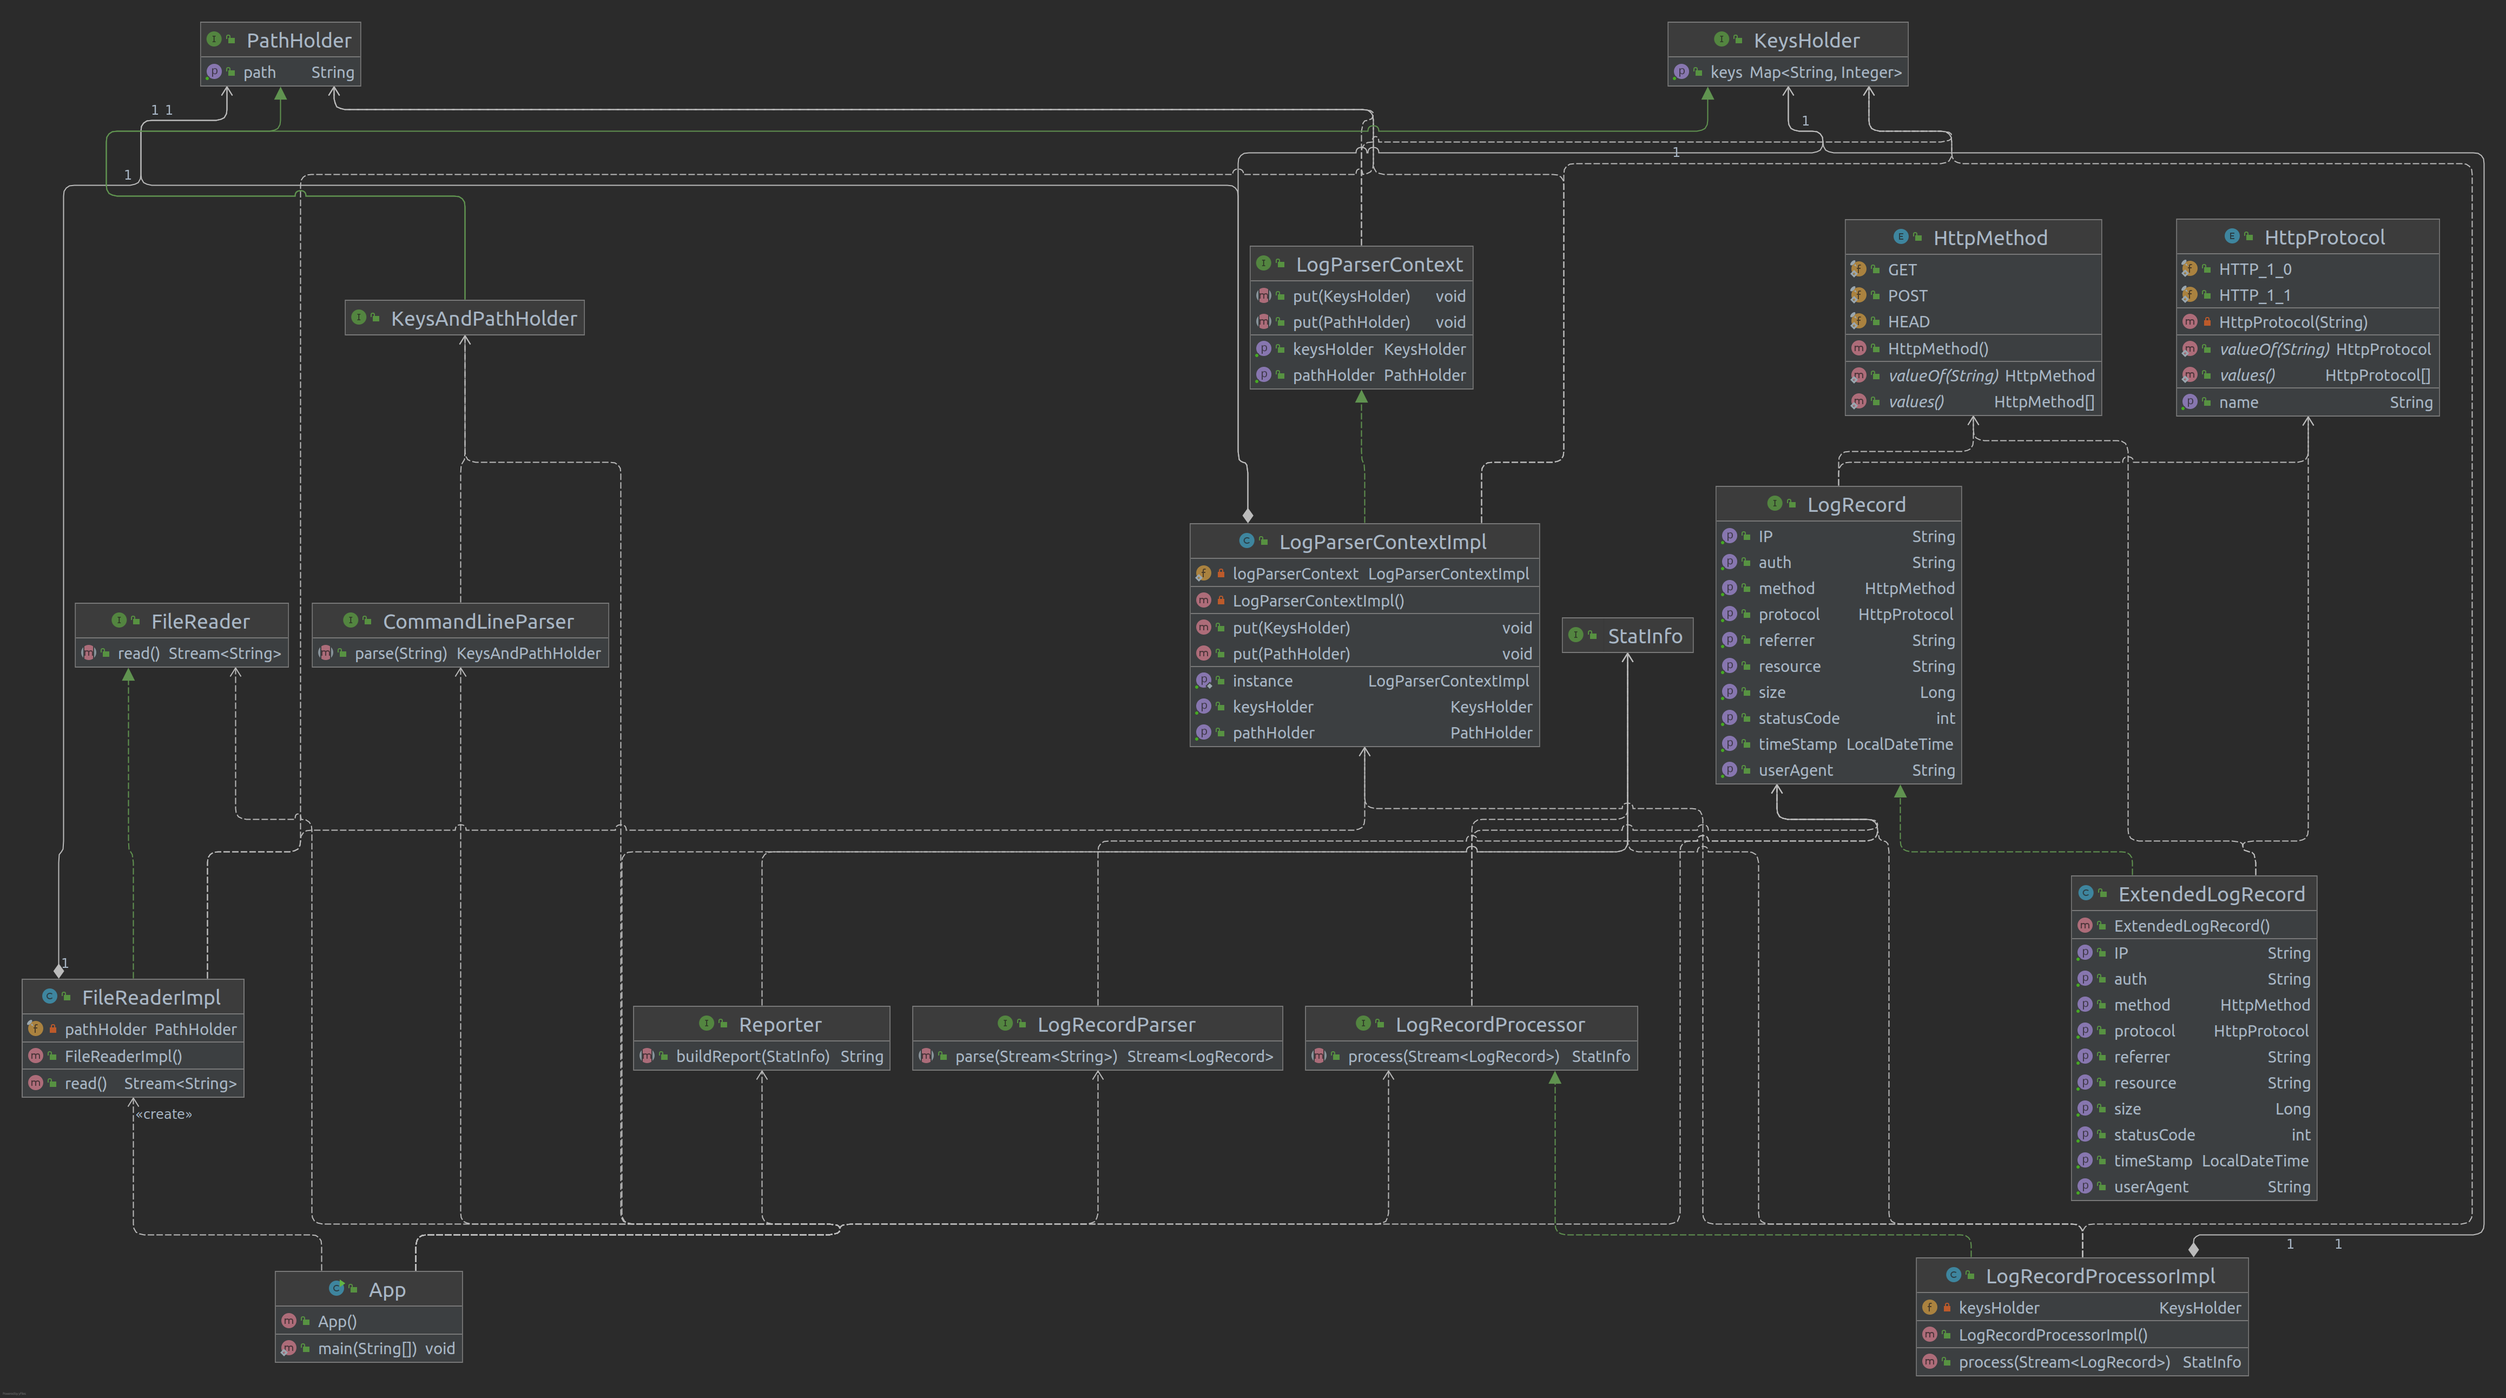
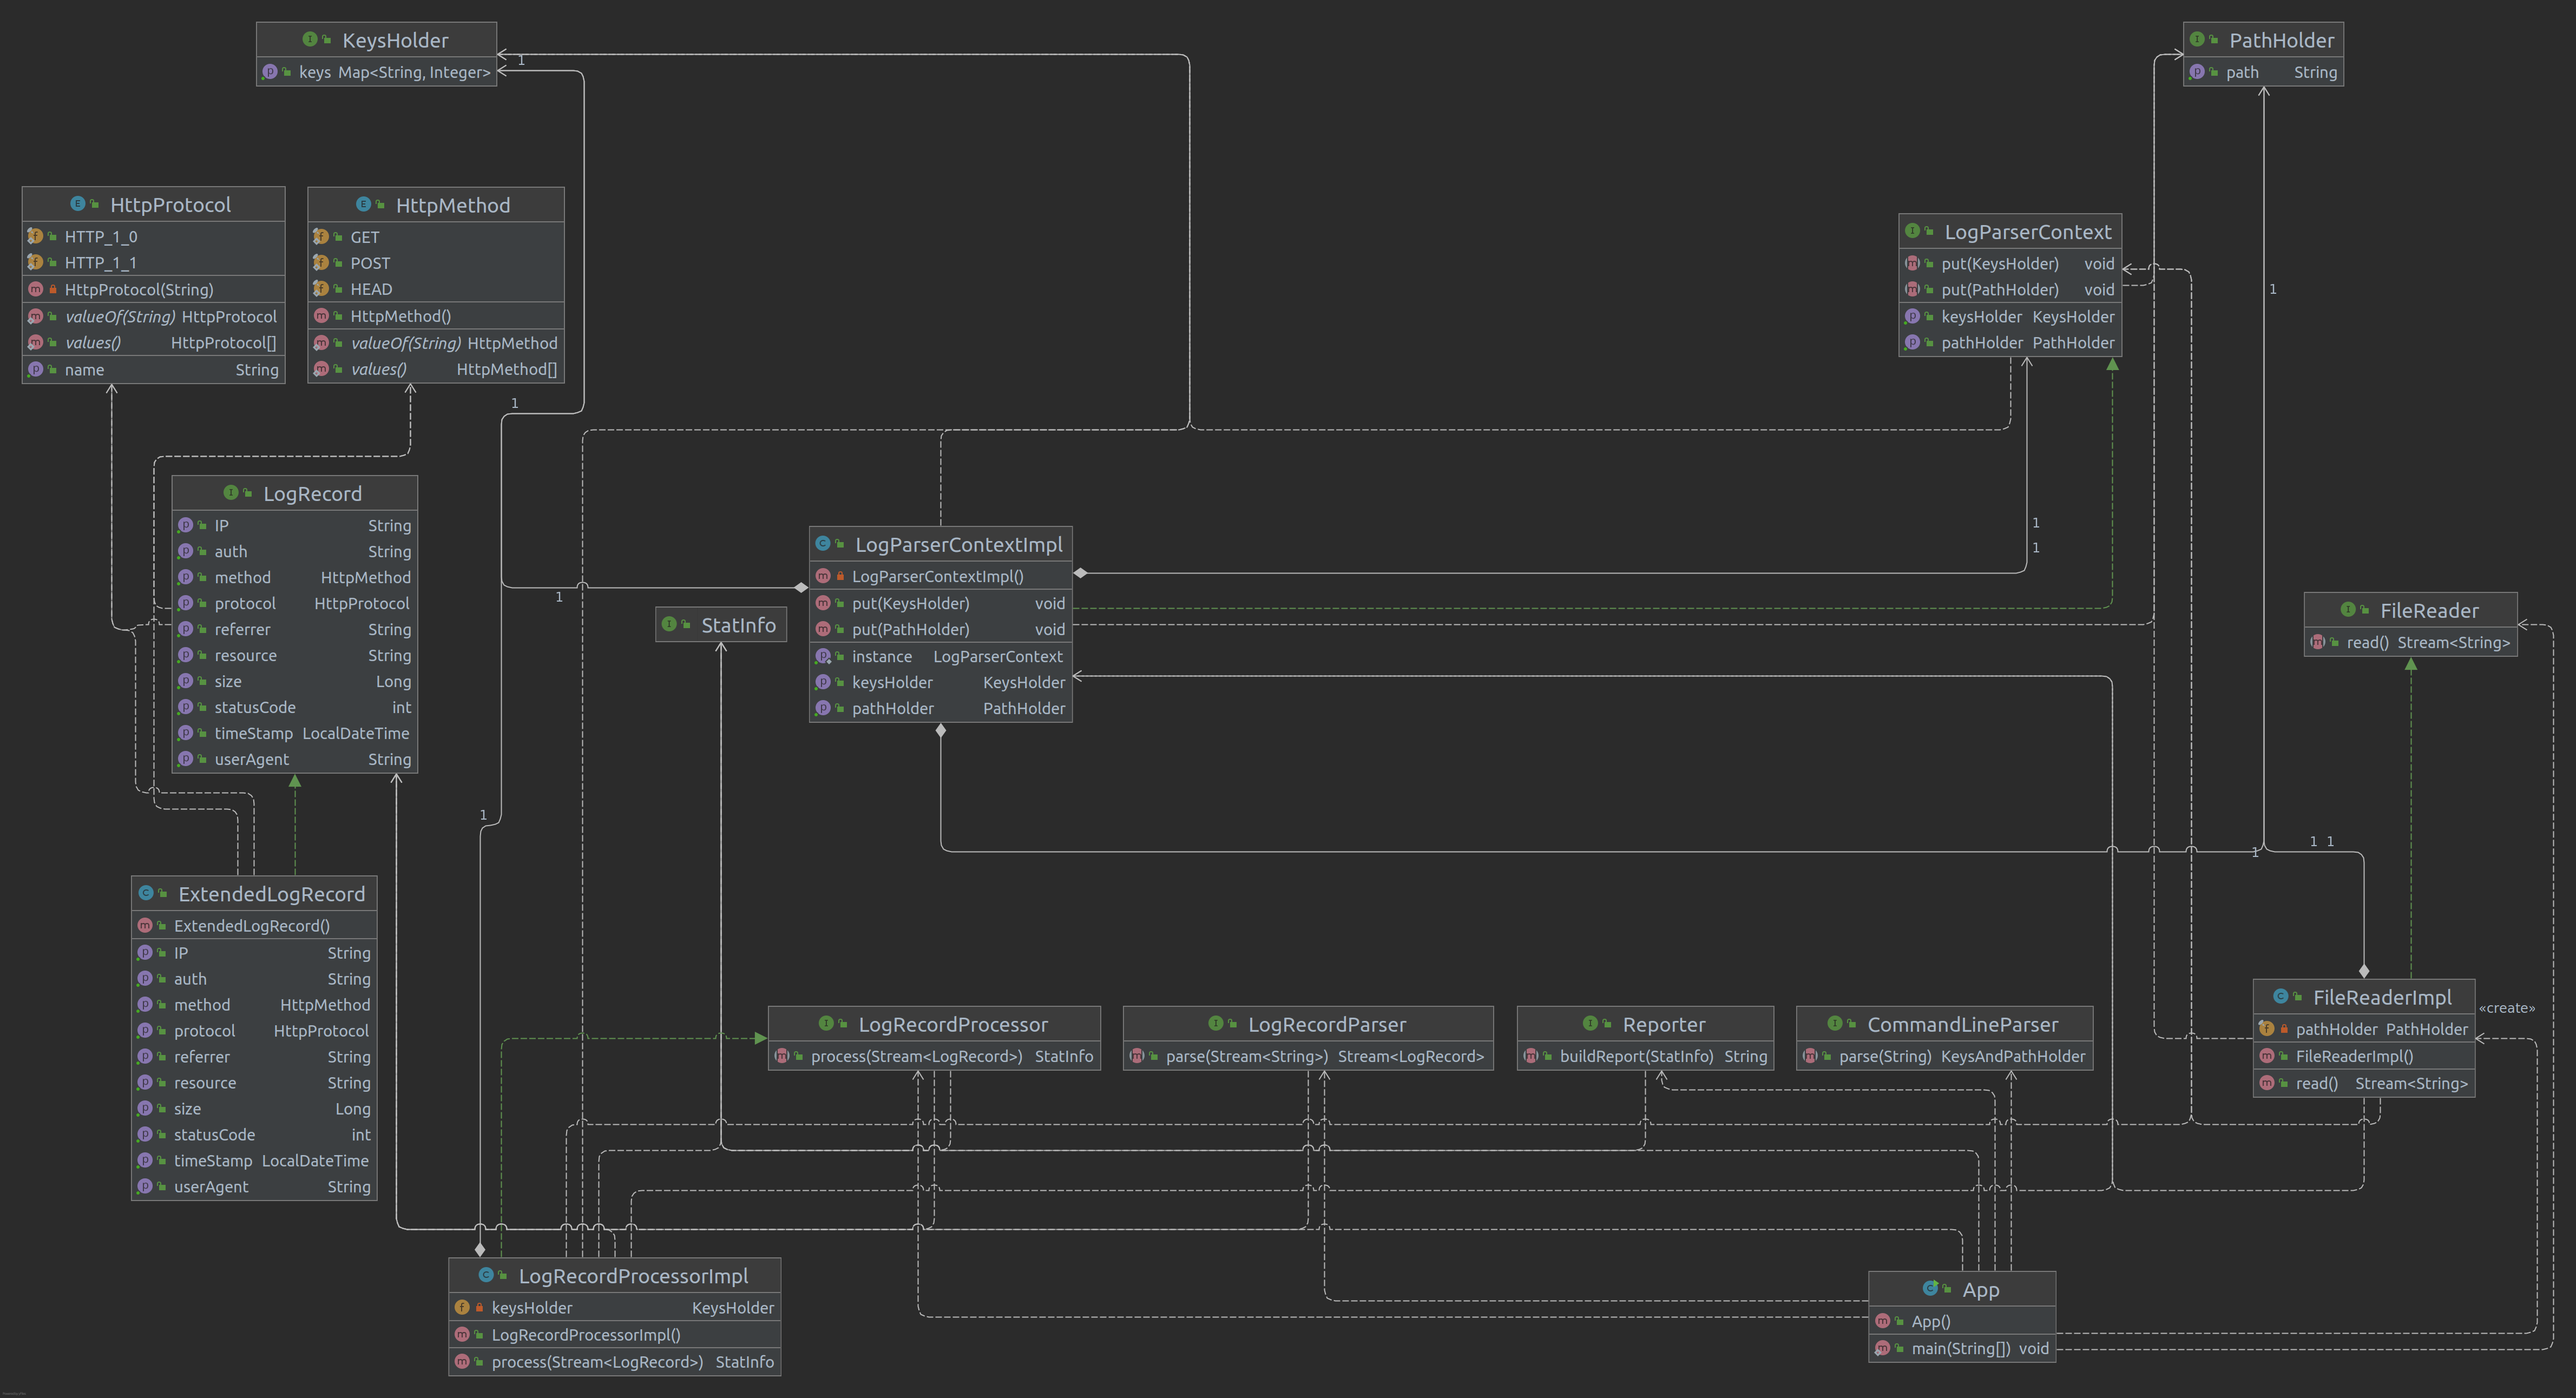
bugfixes for context

diff --git a/src/main/java/com/softserve/logparser/core/impl/LogParserContextImpl.java b/src/main/java/com/softserve/logparser/core/impl/LogParserContextImpl.java
@@ -1,0 +1,47 @@
+package com.softserve.logparser.core.impl;
+
+import com.softserve.logparser.core.KeysHolder;
+import com.softserve.logparser.core.LogParserContext;
+import com.softserve.logparser.core.PathHolder;
+
+/**
+ * @author <a href="mailto:info@olegorlov.com">Oleg Orlov</a>
+ */
+public class LogParserContextImpl implements LogParserContext {
+
+    private PathHolder pathHolder;
+    private KeysHolder keysHolder;
+
+    private static LogParserContext instance;
+
+    private LogParserContextImpl() {
+    }
+
+    public static LogParserContext getInstance() {
+        if (instance == null) {
+            instance = new LogParserContextImpl();
+        }
+        return instance;
+    }
+
+    @Override
+    public void put(PathHolder pathHolder) {
+        this.pathHolder = pathHolder;
+    }
+
+    @Override
+    public void put(KeysHolder keysHolder) {
+        this.keysHolder = keysHolder;
+    }
+
+    @Override
+    public PathHolder getPathHolder() {
+        return pathHolder;
+    }
+
+    @Override
+    public KeysHolder getKeysHolder() {
+        return keysHolder;
+    }
+
+}

diff --git a/src/main/java/com/softserve/logparser/App.java b/src/main/java/com/softserve/logparser/App.java
@@ -11,7 +11,6 @@ public class App {
         CommandLineParser commandLineParser = string -> {
             return null;
         };
-        KeysAndPathHolder keysAndPathHolder = commandLineParser.parse("");
 
         FileReader fileReader = new FileReaderImpl();
         Stream<String> stringStream = fileReader.read();
